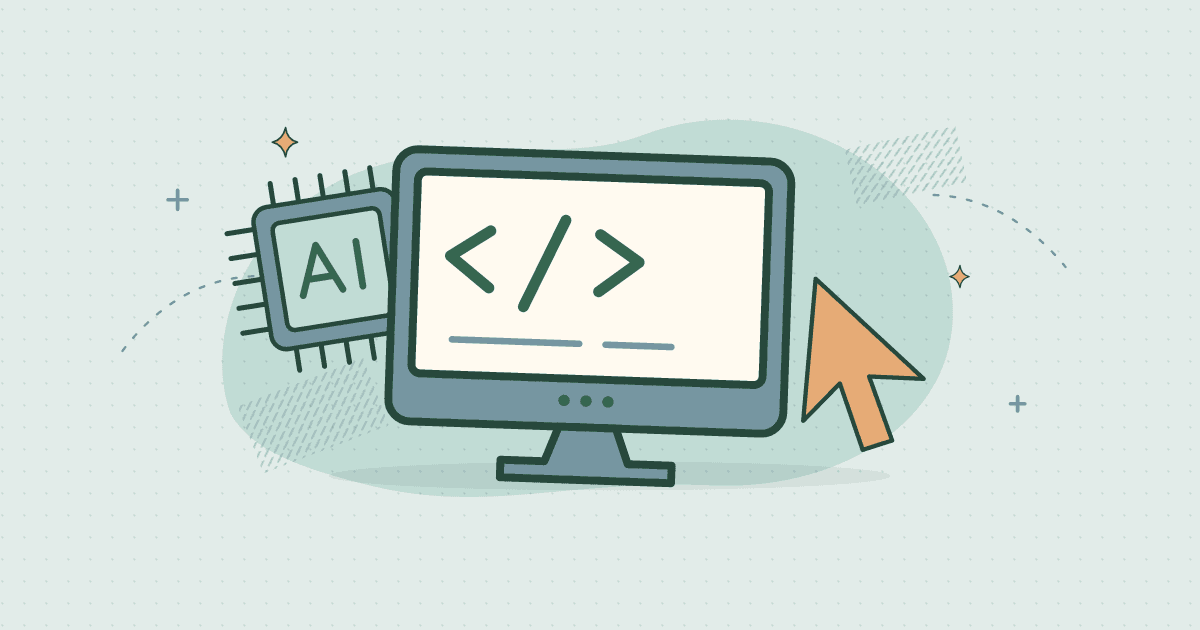
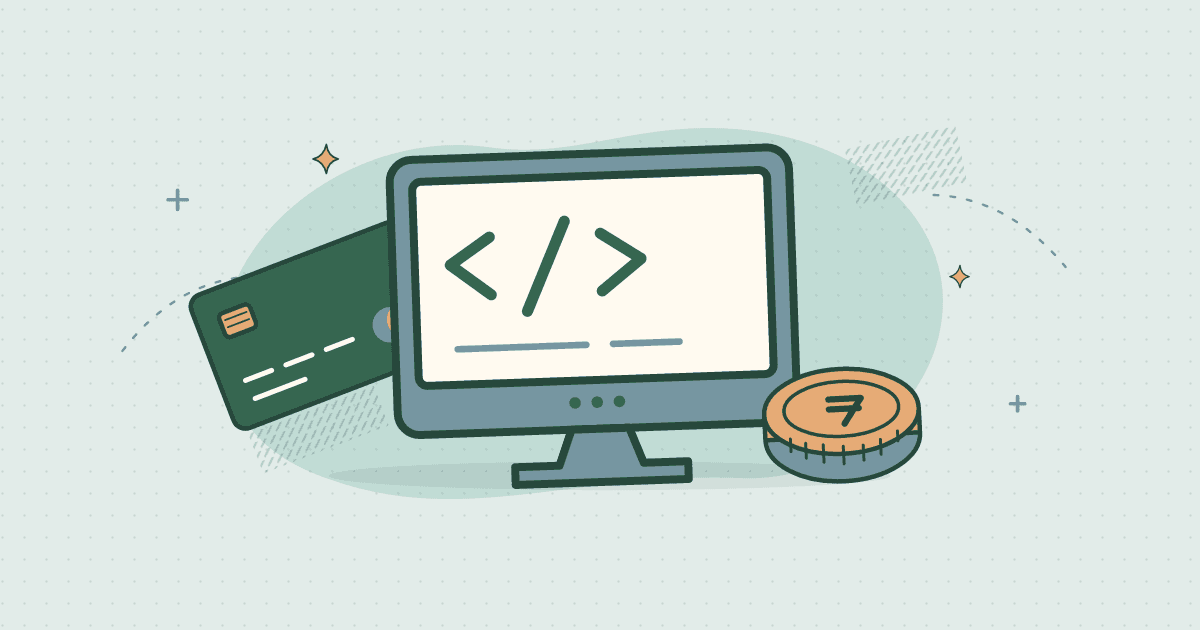
Add tailored code-pricing editorial illustration (code screen + payment card + BDT coin)

diff --git a/blog/index.html b/blog/index.html
@@ -54,7 +54,7 @@
       <a class="library-browse" href="#archive">সব গাইড দেখুন <span aria-hidden="true">↓</span></a>
     </div>
     <a class="library-feature" href="/blog/claude-code-pricing-bangla/">
-      <div class="library-feature-art"><img src="/assets/editorial/coding.svg" alt="কোড এডিটরের পর্দা ও কার্সরের অঙ্কন" width="1000" height="440" decoding="async" fetchpriority="high"></div>
+      <div class="library-feature-art"><img src="/assets/editorial/code-pricing.svg" alt="কোড এডিটরের পর্দা, পেমেন্ট কার্ড ও কয়েনের অঙ্কন" width="1000" height="440" decoding="async" fetchpriority="high"></div>
       <div class="library-feature-copy"><span class="library-label">সাম্প্রতিক গাইড</span><h2>Claude Code Pricing ও Usage Bundles — বাংলা গাইড</h2><span class="library-read">গাইড পড়ুন ↗</span></div>
     </a>
   </div>
@@ -66,7 +66,7 @@
     </div>
     <p class="library-count" role="status" id="blogCount"></p>
     <div class="blog-grid" id="blogGrid">
-<article class="blog-card" data-category="কোডিং"><a class="library-card-link" href="/blog/claude-code-pricing-bangla/"><div class="library-card-image"><img src="/assets/editorial/coding.svg" alt="কোড এডিটরের পর্দা ও কার্সরের অঙ্কন" width="1000" height="440" decoding="async" loading="lazy"></div><div class="library-card-copy"><span class="library-category">কোডিং</span><h3>Claude Code Pricing ও Usage Bundles — বাংলা গাইড</h3><p>Claude Code pricing বাংলায়: Pro ($20), Max ($100) ও Ultra ($200) প্ল্যানের আনুমানিক টাকার হিসাব, নতুন Usage Bundles ছাড় ও টার্মিনাল/VS Code-এ ব্যবহারের নিয়ম।</p><div class="library-card-foot"><time datetime="2026-11-06">৬ নভেম্বর, ২০২৬</time><span>পড়ুন ↗</span></div></div></a></article>
+<article class="blog-card" data-category="কোডিং"><a class="library-card-link" href="/blog/claude-code-pricing-bangla/"><div class="library-card-image"><img src="/assets/editorial/code-pricing.svg" alt="কোড এডিটরের পর্দা, পেমেন্ট কার্ড ও কয়েনের অঙ্কন" width="1000" height="440" decoding="async" loading="lazy"></div><div class="library-card-copy"><span class="library-category">কোডিং</span><h3>Claude Code Pricing ও Usage Bundles — বাংলা গাইড</h3><p>Claude Code pricing বাংলায়: Pro ($20), Max ($100) ও Ultra ($200) প্ল্যানের আনুমানিক টাকার হিসাব, নতুন Usage Bundles ছাড় ও টার্মিনাল/VS Code-এ ব্যবহারের নিয়ম।</p><div class="library-card-foot"><time datetime="2026-11-06">৬ নভেম্বর, ২০২৬</time><span>পড়ুন ↗</span></div></div></a></article>
 <article class="blog-card" data-category="এআই টুল"><a class="library-card-link" href="/blog/chatgpt-aesthetic-prompt-bangla/"><div class="library-card-image"><img src="/assets/editorial/prompts.svg" alt="প্রশ্ন লেখার কার্ড ও উত্তর নির্দেশক কার্সরের অঙ্কন" width="1000" height="440" decoding="async" loading="lazy"></div><div class="library-card-copy"><span class="library-category">এআই টুল</span><h3>Aesthetic Prompt for ChatGPT — বাংলায় ২০টি</h3><p>Aesthetic prompt for ChatGPT বাংলায় শিখুন—সফট ফিল্ম, গোল্ডেন আওয়ার ও ঢাকার বর্ষা লুক। ChatGPT Images-এ ২০টি কপি-পেস্ট প্রম্পট ও বাংলাদেশে ব্যবহারের ধাপ।</p><div class="library-card-foot"><time datetime="2026-11-05">৫ নভেম্বর, ২০২৬</time><span>পড়ুন ↗</span></div></div></a></article>
 <article class="blog-card" data-category="মিডিয়া"><a class="library-card-link" href="/blog/gemini-avatar-share-bangla-guide/"><div class="library-card-image"><img src="/assets/editorial/portrait.svg" alt="মুখের প্রতিকৃতি, ফ্রেম ও রঙের নমুনার অঙ্কন" width="1000" height="440" decoding="async" loading="lazy"></div><div class="library-card-copy"><span class="library-category">মিডিয়া</span><h3>Gemini Avatar শেয়ার: নিজের চেহারায় AI ভিডিও বানানোর গাইড</h3><p>Gemini-তে নিজের মুখ ও কণ্ঠের Avatar বানিয়ে বন্ধুদের সঙ্গে শেয়ার করা যায় এখন। বাংলাদেশ থেকে চালুর ধাপ, টাকায় খরচ, VPN ও নিরাপত্তার নিয়ম সহজ বাংলায় জানুন।</p><div class="library-card-foot"><time datetime="2026-11-04">৪ নভেম্বর, ২০২৬</time><span>পড়ুন ↗</span></div></div></a></article>
 <article class="blog-card" data-category="এআই টুল"><a class="library-card-link" href="/blog/nano-banana-gemini-prompt-bangla/"><div class="library-card-image"><img src="/assets/editorial/image-prompt.svg" alt="ছবি তৈরির প্রম্পটের পাশে ফ্রেমে আঁকা একটি কলা ও রঙের নমুনা" width="1000" height="440" decoding="async" loading="lazy"></div><div class="library-card-copy"><span class="library-category">এআই টুল</span><h3>Nano Banana কী? Gemini ছবি এডিটের ২৫টি প্রম্পট</h3><p>Nano Banana হলো Gemini-এর ছবি এডিট মডেল। বাংলাদেশে ফ্রি ব্যবহারের ধাপ, Google AI Plan-এ উন্নত মডেল, আর ২৫টি কপি-পেস্ট প্রম্পট—পোর্ট্রেট থেকে থাম্বনেইল।</p><div class="library-card-foot"><time datetime="2026-11-04">৪ নভেম্বর, ২০২৬</time><span>পড়ুন ↗</span></div></div></a></article>

diff --git a/blog/claude-code-pricing-bangla/index.html b/blog/claude-code-pricing-bangla/index.html
@@ -57,7 +57,7 @@
 <!-- GUIDE-HEADER:END -->
 <main class="seo-main" id="main-content">
 <article data-guide-reader class="container seo-article-page" data-guide-workshop><nav class="breadcrumb" aria-label="পথ"><a href="/">হোম</a><span>›</span><a href="/blog/">ব্লগ</a><span>›</span><span>Claude Code Pricing</span></nav><div class="gw-hero"><div class="gw-hero-copy"><p class="article-kicker"><span class="article-chip">কোডিং</span><span class="article-chip">৬ নভেম্বর ২০২৬</span><span class="article-chip">৭ মিনিট পড়া</span></p><h1>Claude Code Pricing ও Usage Bundles — বাংলা গাইড</h1><p class="gw-deck">Claude Code pricing বাংলায়: Pro ($20), Max ($100) ও Ultra ($200) প্ল্যানের আনুমানিক টাকার হিসাব, নতুন Usage Bundles ছাড় ও টার্মিনাল/VS Code-এ ব্যবহারের নিয়ম।</p><p class="byline">বাংলা AI গাইডের সম্পাদকীয় দল · হালনাগাদ <time datetime="2026-11-06">৬ নভেম্বর ২০২৬</time></p><a class="gw-actions" href="#claude-code-pricing-কীভাবে-কাজ-করে">Claude Code pricing কীভাবে কাজ করে? <span aria-hidden="true">↓</span></a></div><div class="gw-hero-visual"><figure class="article-hero">
-  <img src="/assets/editorial/coding.svg" width="1000" height="440" alt="কোড এডিটরের পর্দা ও কার্সরের অঙ্কন" decoding="async" fetchpriority="high">
+  <img src="/assets/editorial/code-pricing.svg" width="1000" height="440" alt="কোড এডিটরের পর্দা, পেমেন্ট কার্ড ও কয়েনের অঙ্কন" decoding="async" fetchpriority="high">
 </figure></div></div><div class="gw-layout"><nav class="gw-chapters" aria-label="এই গাইডে"><details open><summary>এই গাইডে</summary><ol>
 <li><a href="#claude-code-pricing-কীভাবে-কাজ-করে">Claude Code pricing কীভাবে কাজ করে?</a></li>
 <li><a href="#দ্রুত-তথ্য">দ্রুত তথ্য</a></li>

diff --git a/blog/claude-code-bangla-developer-guide/index.html b/blog/claude-code-bangla-developer-guide/index.html
@@ -330,7 +330,7 @@ claude</code></pre></div>
         </div>
       </a>
       <a href="/blog/claude-code-pricing-bangla/" class="rp-card">
-        <img class="rp-cover" src="/assets/editorial/coding.svg" width="1000" height="440" alt="কোড এডিটরের পর্দা ও কার্সরের অঙ্কন" decoding="async" loading="lazy">
+        <img class="rp-cover" src="/assets/editorial/code-pricing.svg" width="1000" height="440" alt="কোড এডিটরের পর্দা, পেমেন্ট কার্ড ও কয়েনের অঙ্কন" decoding="async" loading="lazy">
         <div class="rp-body">
           <h4 class="rp-title">Claude Code Pricing ও Usage Bundles — বাংলা গাইড</h4>
           <span class="rp-link">পড়ুন →</span>

diff --git a/docs/article-components.md b/docs/article-components.md
@@ -15,7 +15,7 @@ The shared magazine chrome (cover, chips, table of contents, reading time) is ad
 Do **not** manually add `<figure class="av-hero">` or inline `cover.png` inside the article body.
 - `scripts/inject-article-chrome.cjs` and `scripts/apply-guide-workshops.cjs` automatically inject `<figure class="article-hero">` in the top `.gw-hero-visual` slot using the clean vector editorial illustration `/assets/editorial/<topic>.svg` mapped by `scripts/lib/editorial-art.cjs`.
 - `scripts/generate-blog-covers.cjs` automatically generates the `1200×630` `cover.svg` and `cover.png` from that same `/assets/editorial/<topic>.svg` illustration for OpenGraph, Twitter Cards, Google News, and `Article` / `NewsArticle` JSON-LD schema.
-- If a new slug needs a specific editorial topic illustration, add a slug-to-topic mapping in `overrides` inside `scripts/lib/editorial-art.cjs`.
+- **Always match the article's real subject (never use unrelated or made-up art):** If a new article combines specific concepts (for example, `code-pricing` combining `['code', 'card', 'coin', 'blue']` for a coding tool's pricing & BDT cost guide), add a tailored scene `[hero, back, detail, palette]` in `scripts/generate-editorial-art.cjs`, register its topic and Bangla `alt` description at the end of `subjects` (and in `overrides`) inside `scripts/lib/editorial-art.cjs`, and run `node scripts/generate-editorial-art.cjs` before `node scripts/build.cjs`.
 
 ## Quick answer
 
